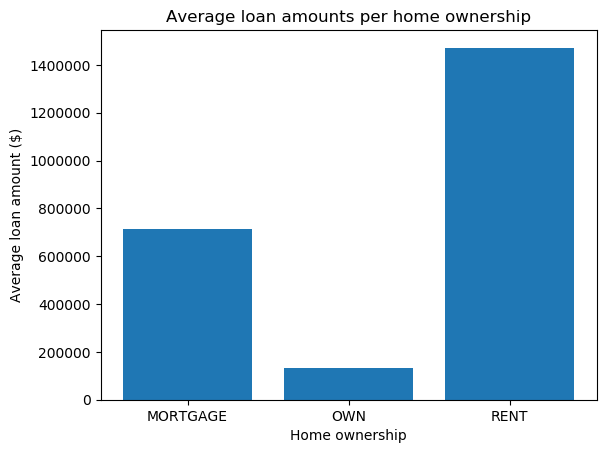
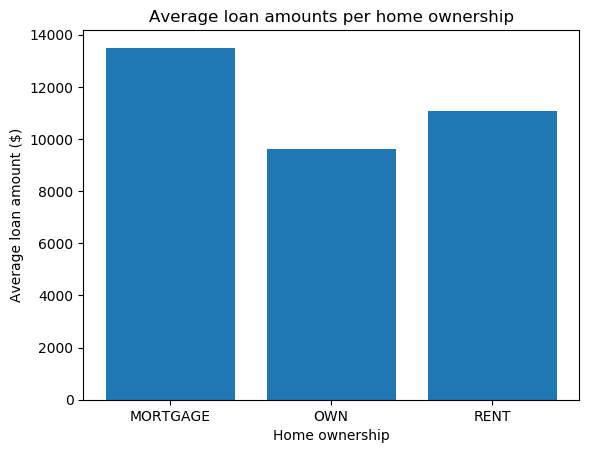
submission

diff --git a/submission.py b/submission.py
@@ -6,6 +6,10 @@ mortgage = 0.0
 rent = 0.0
 own = 0.0
 
+mort_amt = 0.0
+rent_amt = 0.0
+own_amt = 0.0
+
 def do_everything():
 
     home_data =csv.reader(open('home_ownership_data.csv', 'r'),delimiter=',')
@@ -21,7 +25,7 @@ def do_everything():
     
     #Setting parameters of the graph here
     names = ['MORTGAGE', 'OWN', 'RENT']
-    values = [mortgage, own, rent]
+    values = [float(mortgage/mort_amt), float(own/own_amt), float(rent/rent_amt)]
     plt.bar(names, values) 
     plt.xlabel('Home ownership')
     plt.ylabel('Average loan amount ($)')
@@ -47,12 +51,18 @@ def look_loan(ident, loan_type):
                 if loan_type == 'MORTGAGE':
                     global mortgage 
                     mortgage += amt
+                    global mort_amt
+                    mort_amt += 1.0
                 elif loan_type == 'RENT':
                     global rent 
                     rent += amt
+                    global rent_amt
+                    rent_amt += 1.0
                 elif loan_type == 'OWN':
                     global own 
                     own += amt
+                    global own_amt
+                    own_amt += 1.0
                 return
 
 do_everything()
